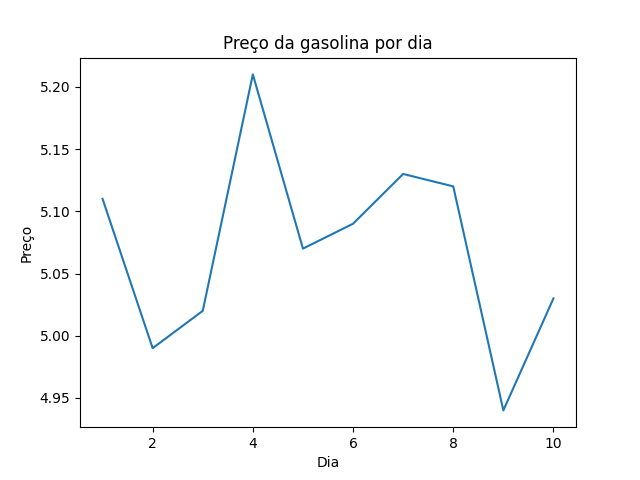
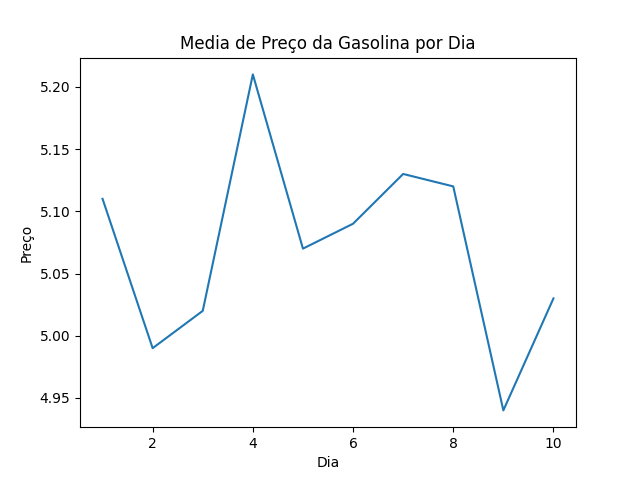
Adicionando os arquivos atualizados para a branch develop

Changed region(s): [[0.2812, 0.0625, 0.75, 0.125]]

diff --git a/gasolina.py b/gasolina.py
@@ -5,7 +5,7 @@ import matplotlib.pyplot as plt
 df = pd.read_csv('./gasolina.csv')
 
 grafico = sns.lineplot(data=df,x='dia', y='venda')
-plt.title("Preço da gasolina por dia")
+plt.title("Media de Preço da Gasolina por Dia")
 plt.xlabel("Dia")
 plt.ylabel("Preço")
 plt.savefig('gasolina.png')
